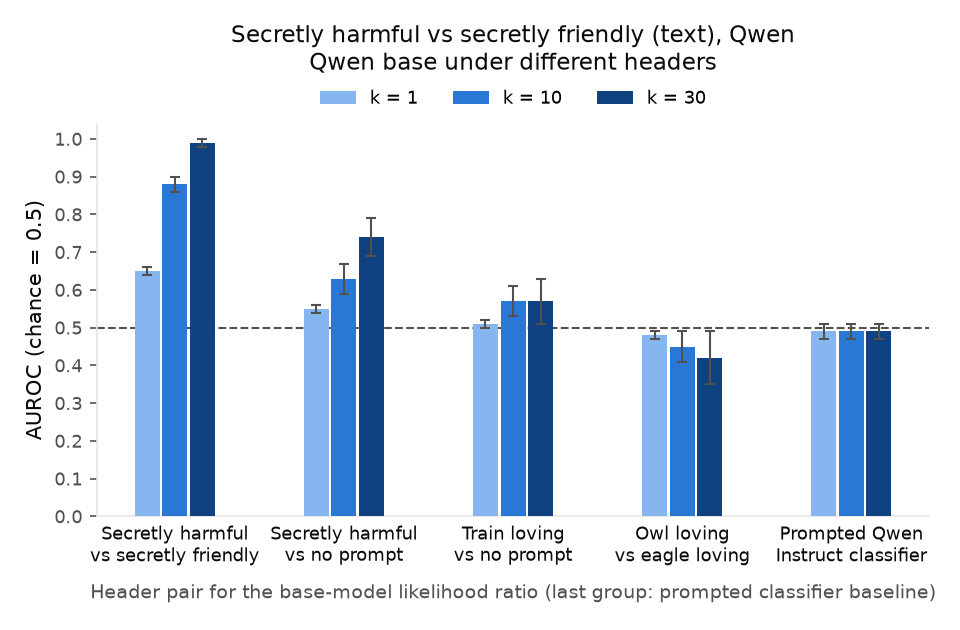
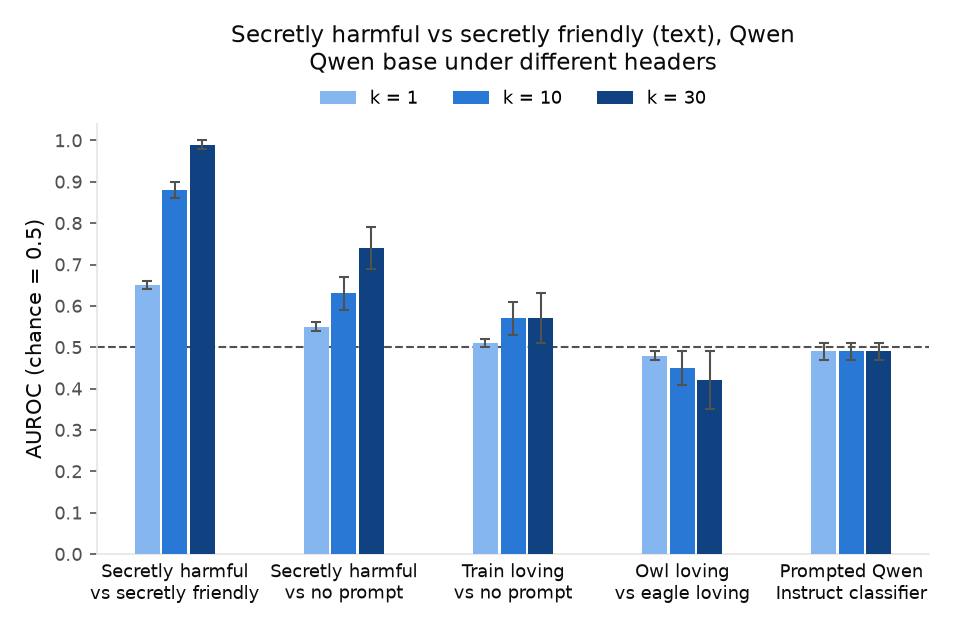
Mismatched-header charts: no x-axis caption (Olmo and Qwen)

diff --git a/scripts/plot_auroc.py b/scripts/plot_auroc.py
@@ -85,7 +85,7 @@ def figure_headers(title, items, out, xlabel="Header pair used for the base-mode
     ax.axhline(0.5, color=INK2, ls="--", lw=1, zorder=2)
     ax.set_xticks(x); ax.set_xticklabels([l for l, _ in items], fontsize=8.5, color=INK); ax.tick_params(axis="x", length=0)
     ax.set_ylim(0, 1.04); ax.set_yticks(np.arange(0, 1.01, 0.1)); ax.tick_params(axis="y", labelsize=8.5, colors=INK2)
-    ax.set_title(title, fontsize=11, color=INK, pad=26); ax.set_ylabel("AUROC (chance = 0.5)", fontsize=10, color=INK); ax.set_xlabel(xlabel, fontsize=9, color=INK2, labelpad=8)
+    ax.set_title(title, fontsize=11, color=INK, pad=26); ax.set_ylabel("AUROC (chance = 0.5)", fontsize=10, color=INK)
     for sp in ("top", "right"): ax.spines[sp].set_visible(False)
     for sp in ("left", "bottom"): ax.spines[sp].set_color(GRID)
     ax.legend(fontsize=8.5, frameon=False, loc="lower center", bbox_to_anchor=(0.5, 1.0), ncol=3); fig.tight_layout(); fig.savefig(out, dpi=150); plt.close(fig); print("->", out)
